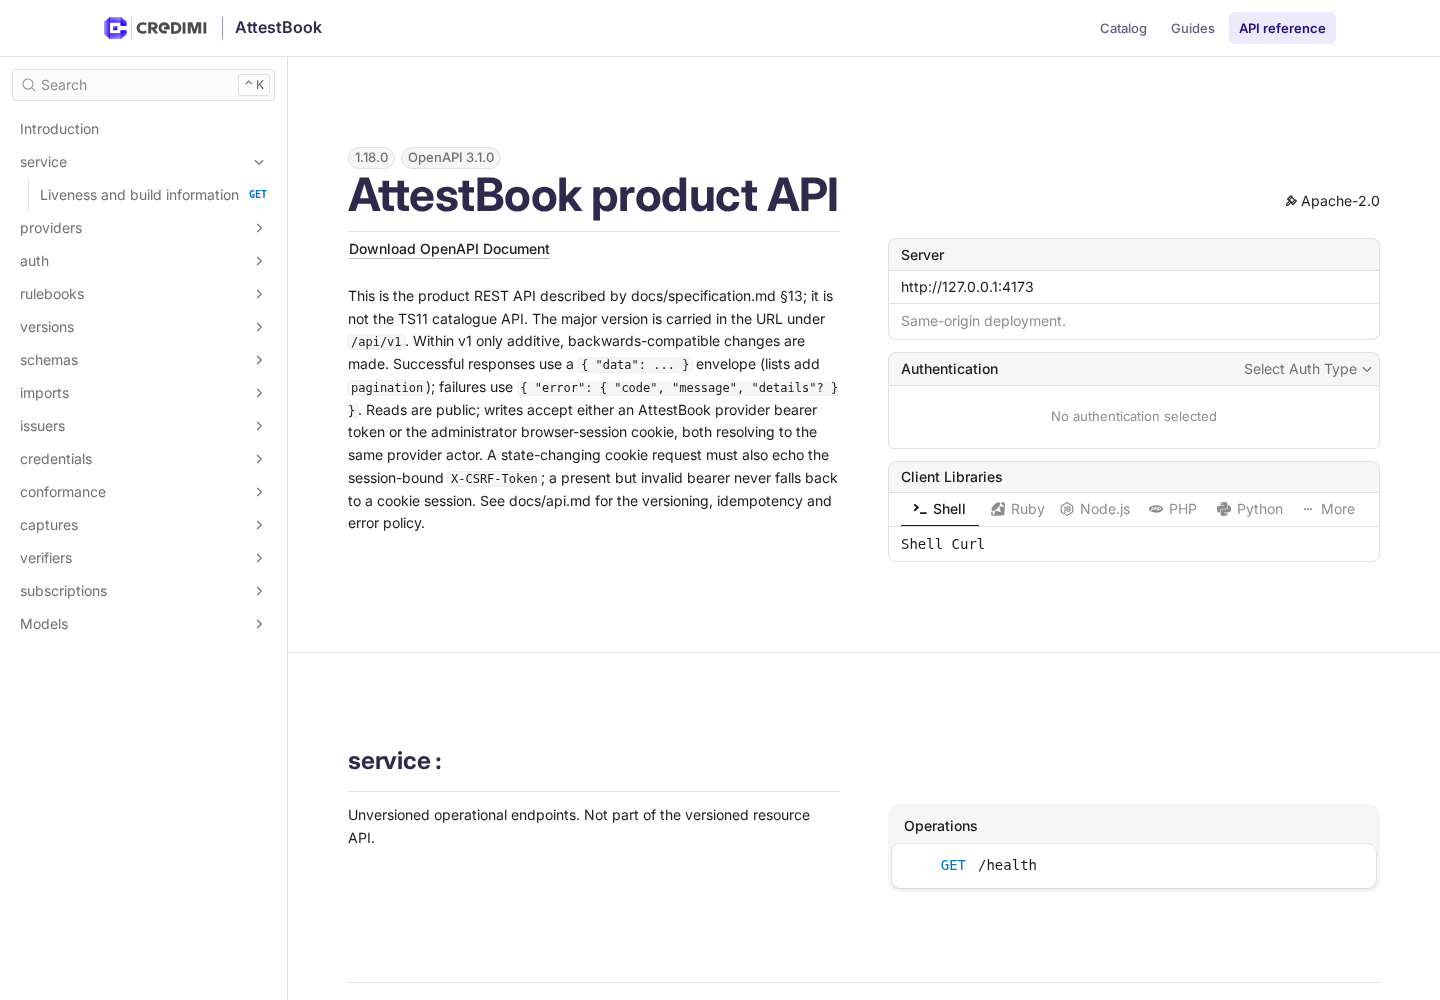
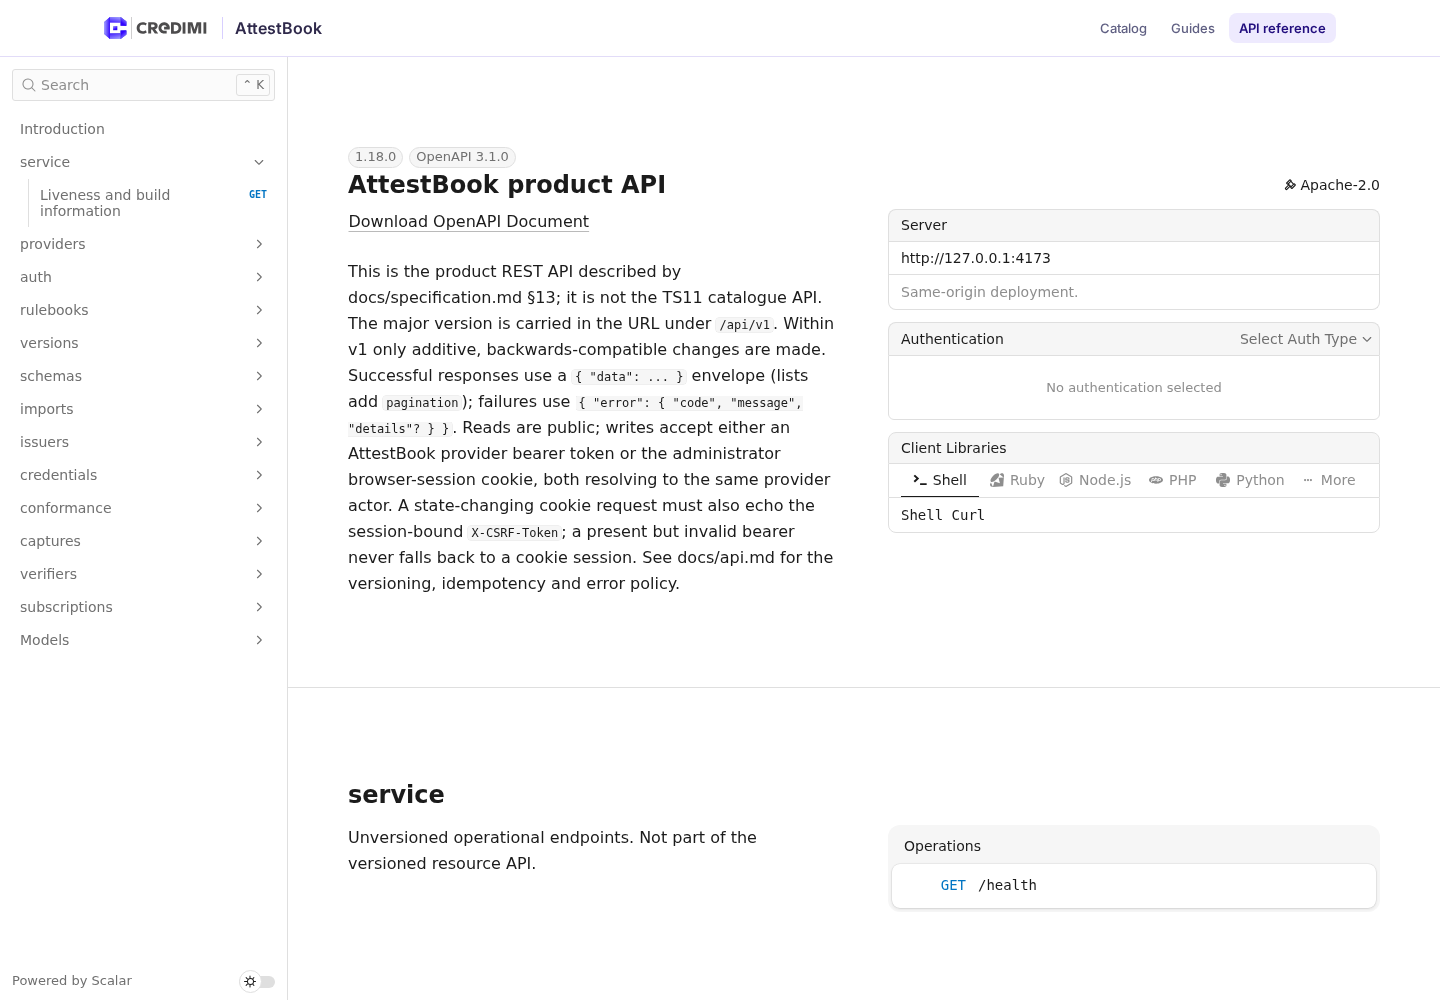
fix(ui): keep the Scalar reference unstyled by the SPA chrome
Do not load the brand stylesheet in the /docs entry: its unlayered global rules override Scalar's layered base styles. Scope the documentation chrome CSS to the header, expose the sticky header height to Scalar so its sidebar and anchors stay below it, and cover the styling, offset and narrow viewport in the docs browser tests.

Refs #131

diff --git a/ui/e2e/docs.spec.ts b/ui/e2e/docs.spec.ts
@@ -61,6 +61,77 @@ test('serves the product API reference from /docs without third-party assets', a
   expect(external).toEqual([])
 })
 
+test('leaves the Scalar reference styling untouched', async ({ page }) => {
+  await page.goto('/docs')
+  await expect(page.getByRole('heading', { name: REFERENCE_TITLE })).toBeVisible()
+
+  const result = await page.evaluate(() => {
+    const sectionHeadings = Array.from(document.querySelectorAll('#docs-root .section-header h2'))
+    return {
+      brandStylesheet: document.querySelector('link[href="/brand/style.css"]') !== null,
+      sectionCount: sectionHeadings.length,
+      sectionAfter: sectionHeadings.map((heading) => getComputedStyle(heading, '::after').content),
+    }
+  })
+
+  // The SPA brand stylesheet would override Scalar's layered base styles (and
+  // add a colon to Scalar's section headers), so the docs entry must not load it.
+  expect(result.brandStylesheet).toBe(false)
+  expect(result.sectionCount).toBeGreaterThan(0)
+  for (const after of result.sectionAfter) {
+    expect(['none', 'normal']).toContain(after)
+  }
+})
+
+test('keeps the Scalar sidebar below the sticky documentation header', async ({ page }) => {
+  await page.setViewportSize({ width: 1440, height: 1000 })
+  await page.goto('/docs')
+  await expect(page.getByRole('heading', { name: REFERENCE_TITLE })).toBeVisible()
+
+  const chrome = page.locator('.docs-chrome')
+  const sidebar = page.locator('#docs-root aside').first()
+  const chromeBefore = await chrome.boundingBox()
+  const sidebarBefore = await sidebar.boundingBox()
+  expect(chromeBefore).not.toBeNull()
+  expect(sidebarBefore).not.toBeNull()
+  // Scalar's sidebar fits the viewport below the header; its footer (theme
+  // toggle and Scalar credit) is not pushed below the fold.
+  expect((sidebarBefore?.y ?? 0) + (sidebarBefore?.height ?? 0)).toBeLessThanOrEqual(1000 + 1)
+
+  await page.evaluate(() => window.scrollTo(0, 1500))
+  await expect
+    .poll(async () => {
+      const box = await sidebar.boundingBox()
+      return box === null ? 0 : Math.round(box.y)
+    })
+    .toBeGreaterThanOrEqual(Math.floor((chromeBefore?.y ?? 0) + (chromeBefore?.height ?? 0)) - 1)
+
+  const search = sidebar.getByRole('button').first()
+  const searchBox = await search.boundingBox()
+  const chromeAfter = await chrome.boundingBox()
+  expect(searchBox).not.toBeNull()
+  expect(chromeAfter).not.toBeNull()
+  expect(searchBox?.y ?? 0).toBeGreaterThanOrEqual(
+    (chromeAfter?.y ?? 0) + (chromeAfter?.height ?? 0) - 1,
+  )
+})
+
+test('keeps the reference and its documentation header usable at 390 px', async ({ page }) => {
+  await page.setViewportSize({ width: 390, height: 844 })
+  await page.goto('/docs')
+  await expect(page.getByRole('heading', { name: REFERENCE_TITLE })).toBeVisible()
+
+  const documentation = page.getByRole('navigation', { name: 'Documentation' })
+  await expect(documentation.getByRole('link', { name: 'Catalog' })).toBeVisible()
+  await expect(documentation.getByRole('link', { name: 'Guides' })).toBeVisible()
+  await expect(documentation.getByRole('link', { name: 'API reference' })).toBeVisible()
+
+  const horizontalOverflow = await page.evaluate(
+    () => document.documentElement.scrollWidth - window.innerWidth,
+  )
+  expect(horizontalOverflow).toBeLessThanOrEqual(1)
+})
+
 test('keeps the reference on /docs after a reload', async ({ page }) => {
   await page.goto('/docs')
   await expect(page.getByRole('heading', { name: REFERENCE_TITLE })).toBeVisible()

diff --git a/ui/src/docs/docs.css b/ui/src/docs/docs.css
@@ -3,13 +3,54 @@
  *
  * The reference is a separate Vite entry document, not an SPA route, so it
  * carries its own small header with the two ways back into the product: the
- * Catalog and the Guides. The API reference stays the current page. Scalar
- * itself is untouched and still owns everything inside `#docs-root`.
+ * Catalog and the Guides. The API reference stays the current page.
+ *
+ * This stylesheet is deliberately self-contained and scoped to the chrome:
+ * it must not load the SPA brand stylesheet, whose unlayered global rules would
+ * override Scalar's layered base styles and restyle the reference. Every rule
+ * below targets the documentation header, its skip link, `:root` custom
+ * properties, or the single `body` margin reset; Scalar keeps its own styles
+ * and background inside `#docs-root`.
  */
+
+/* The header uses the same self-hosted brand face, without exposing a global
+   font rule that could reach the Scalar content. */
+@font-face {
+  font-family: 'Docs Inter';
+  src: url('/brand/fonts/InterVariable.ttf') format('truetype-variations');
+  font-weight: 400 900;
+  font-style: normal;
+  font-display: swap;
+}
+
+:root {
+  --docs-chrome-height: 56px;
+  /* Scalar offsets its sticky sidebar, anchors and scroll positions by this
+     documented embedding hook. Match it to our sticky header so the sidebar
+     starts below the header instead of underneath it. */
+  --scalar-custom-header-height: var(--docs-chrome-height);
+}
 
 body {
   margin: 0;
-  background: var(--bg, #fff);
+}
+
+.docs-chrome,
+.docs-skip-link {
+  font-family: 'Docs Inter', ui-sans-serif, system-ui, -apple-system, 'Segoe UI', sans-serif;
+  line-height: 1.4;
+}
+
+.docs-chrome *,
+.docs-chrome *::before,
+.docs-chrome *::after {
+  box-sizing: border-box;
+}
+
+.docs-chrome :focus-visible,
+.docs-skip-link:focus-visible {
+  outline: 3px solid var(--brand-accent, #3d1fc4);
+  outline-offset: 2px;
 }
 
 .docs-skip-link {
@@ -22,16 +63,11 @@ body {
   background: var(--bg, #fff);
   color: var(--brand-primary, #220e7e);
   font-weight: 600;
-  box-shadow: var(--shadow-md);
+  box-shadow: var(--shadow-md, 0 4px 12px rgb(34 14 126 / 12%));
 }
 
 .docs-skip-link:focus-visible {
   top: 12px;
-}
-
-:focus-visible {
-  outline: 3px solid var(--brand-accent, #3d1fc4);
-  outline-offset: 2px;
 }
 
 .docs-chrome {
@@ -44,8 +80,8 @@ body {
 
 .docs-chrome__inner {
   display: flex;
+  height: var(--docs-chrome-height);
   max-width: var(--max-width, 1280px);
-  min-height: var(--topbar-height, 56px);
   margin: 0 auto;
   padding: 0 var(--app-page-gutter, 24px);
   align-items: center;
@@ -111,11 +147,22 @@ body {
 }
 
 .docs-main {
-  min-height: calc(100vh - var(--topbar-height, 56px));
+  min-height: calc(100dvh - var(--docs-chrome-height));
 }
 
 @media (max-width: 640px) {
+  /* The header wraps to a variable height here, so it scrolls away rather
+     than sticking over Scalar's own mobile header. */
+  :root {
+    --scalar-custom-header-height: 0px;
+  }
+
+  .docs-chrome {
+    position: static;
+  }
+
   .docs-chrome__inner {
+    height: auto;
     padding: 8px 16px;
     flex-wrap: wrap;
     gap: 8px 16px;

diff --git a/ui/src/components/GuideNavigation.tsx b/ui/src/components/GuideNavigation.tsx
@@ -3,9 +3,7 @@ import { AppLink, DOCS_PATH, GUIDE_PATH, guidePath } from '../router'
 
 /** Which guide navigation entry, if any, is the current page. */
 export type GuideNavigationState =
-  | { readonly kind: 'index' }
-  | { readonly kind: 'page'; readonly slug: string }
-  | { readonly kind: 'not-found' }
+  { readonly kind: 'page'; readonly slug: string } | { readonly kind: 'not-found' }
 
 interface GuideNavigationProps {
   readonly state: GuideNavigationState
@@ -28,12 +26,7 @@ export function GuideNavigation({ state, onNavigate }: GuideNavigationProps) {
       <p className="guide-nav__title">Guides</p>
       <ul className="guide-nav__list">
         <li>
-          <AppLink
-            className="guide-nav__link"
-            href={GUIDE_PATH}
-            onNavigate={onNavigate}
-            {...(state.kind === 'index' ? { 'aria-current': 'page' as const } : {})}
-          >
+          <AppLink className="guide-nav__link" href={GUIDE_PATH} onNavigate={onNavigate}>
             Guides overview
           </AppLink>
         </li>

diff --git a/ui/docs.html b/ui/docs.html
@@ -3,15 +3,13 @@
   <head>
     <meta charset="UTF-8" />
     <meta name="viewport" content="width=device-width, initial-scale=1.0" />
-    <meta name="color-scheme" content="light" />
+    <meta name="color-scheme" content="light dark" />
     <meta name="theme-color" content="#220E7E" />
     <meta
       name="description"
       content="Interactive reference for the AttestBook product API, generated from the same-origin OpenAPI contract."
     />
     <link rel="icon" href="/brand/logos/credimi_logo.svg" type="image/svg+xml" />
-    <!-- Brand tokens first; the reference and its documentation chrome load after. -->
-    <link rel="stylesheet" href="/brand/style.css" />
     <title>API reference · AttestBook</title>
   </head>
   <body>

diff --git a/docs/ui.md b/docs/ui.md
@@ -229,7 +229,11 @@ Implemented by these slices:
   - `/docs` keeps the existing standalone Scalar reference and adds only a small branded
     documentation header (`Catalog`, `Guides`, the current `API reference`) plus a skip link,
     giving a way back to the product. Scalar and `/openapi.json` are not embedded, moved or
-    reimplemented;
+    reimplemented. The docs entry does not load the SPA brand stylesheet, whose unlayered global
+    rules would override Scalar's layered styles; its chrome stylesheet is scoped to the header
+    and sets Scalar's `--scalar-custom-header-height` so Scalar's sticky sidebar and anchor
+    offsets start below the header. At 640 px and below the header is static and that offset is
+    reset;
   - wide screens keep the sidebar and API-reference panel sticky under the topbar; at 1000 px
     and below the layouts become a single column, so the sidebar becomes a keyboard-reachable
     list above the article at 390 px without horizontal scrolling. The shared header wraps its
@@ -862,7 +866,10 @@ to the catalog, the current guide page in the article sidebar, following the API
 link to the Scalar page and back through the reference's own `Guides` link, and a 390 px
 check that keeps the sidebar keyboard focusable, the article readable and the page free of
 horizontal scrolling with a full axe-core scan. The reference spec also asserts its
-documentation header links to the catalog and the guides and marks `API reference` current.
+documentation header links to the catalog and the guides and marks `API reference` current; that
+the docs entry loads no SPA brand stylesheet, so Scalar's section-header rules stay untouched;
+that the sticky header's height is exposed to Scalar so its sidebar and search field stay below
+the header after scrolling; and that `/docs` has no horizontal overflow at 390 px.
 
 CI adds the `ui` job: `typecheck:ui`, `test:ui`, Chromium installation and `test:e2e`. The
 `build` job verifies `dist/ui/index.html` exists and the Docker job checks that `/` serves
